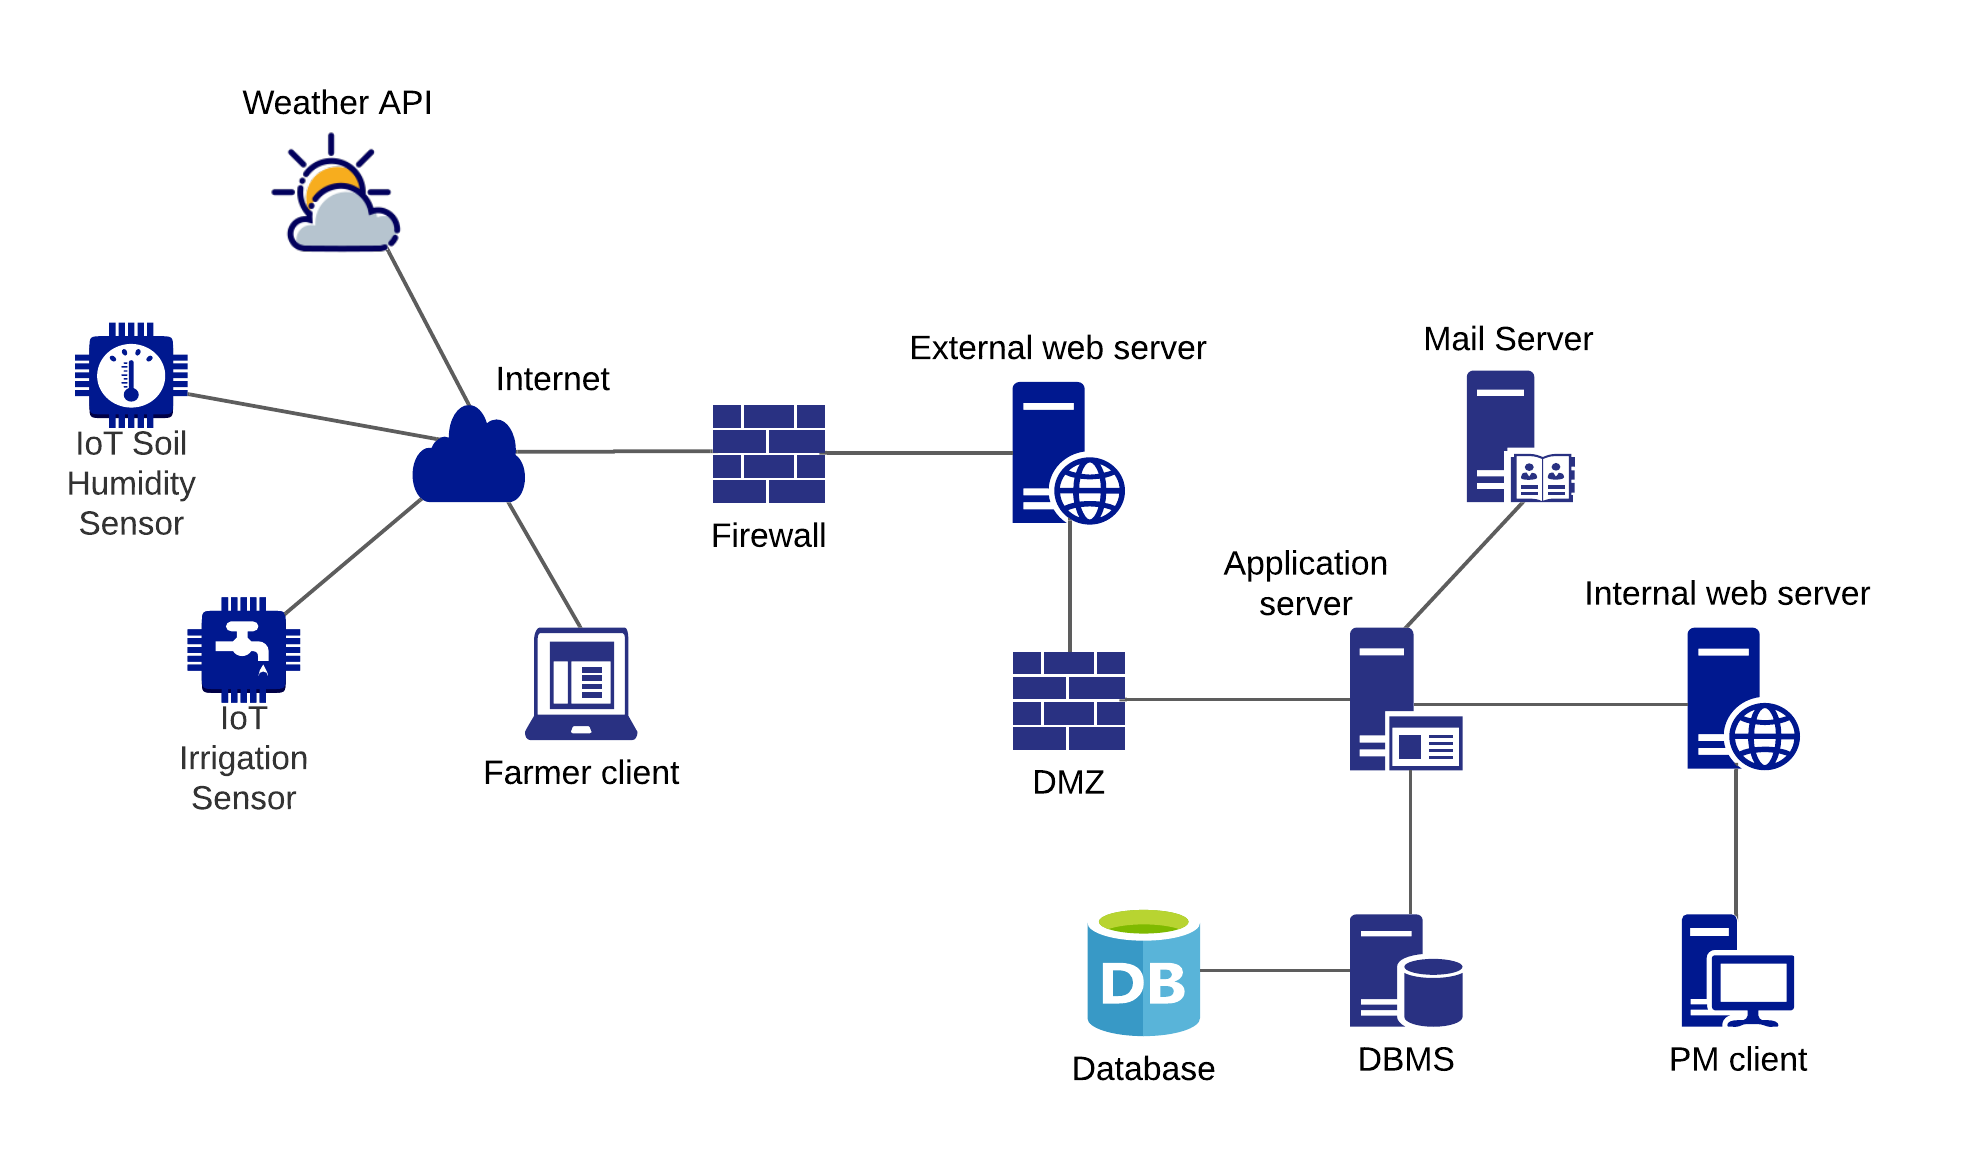
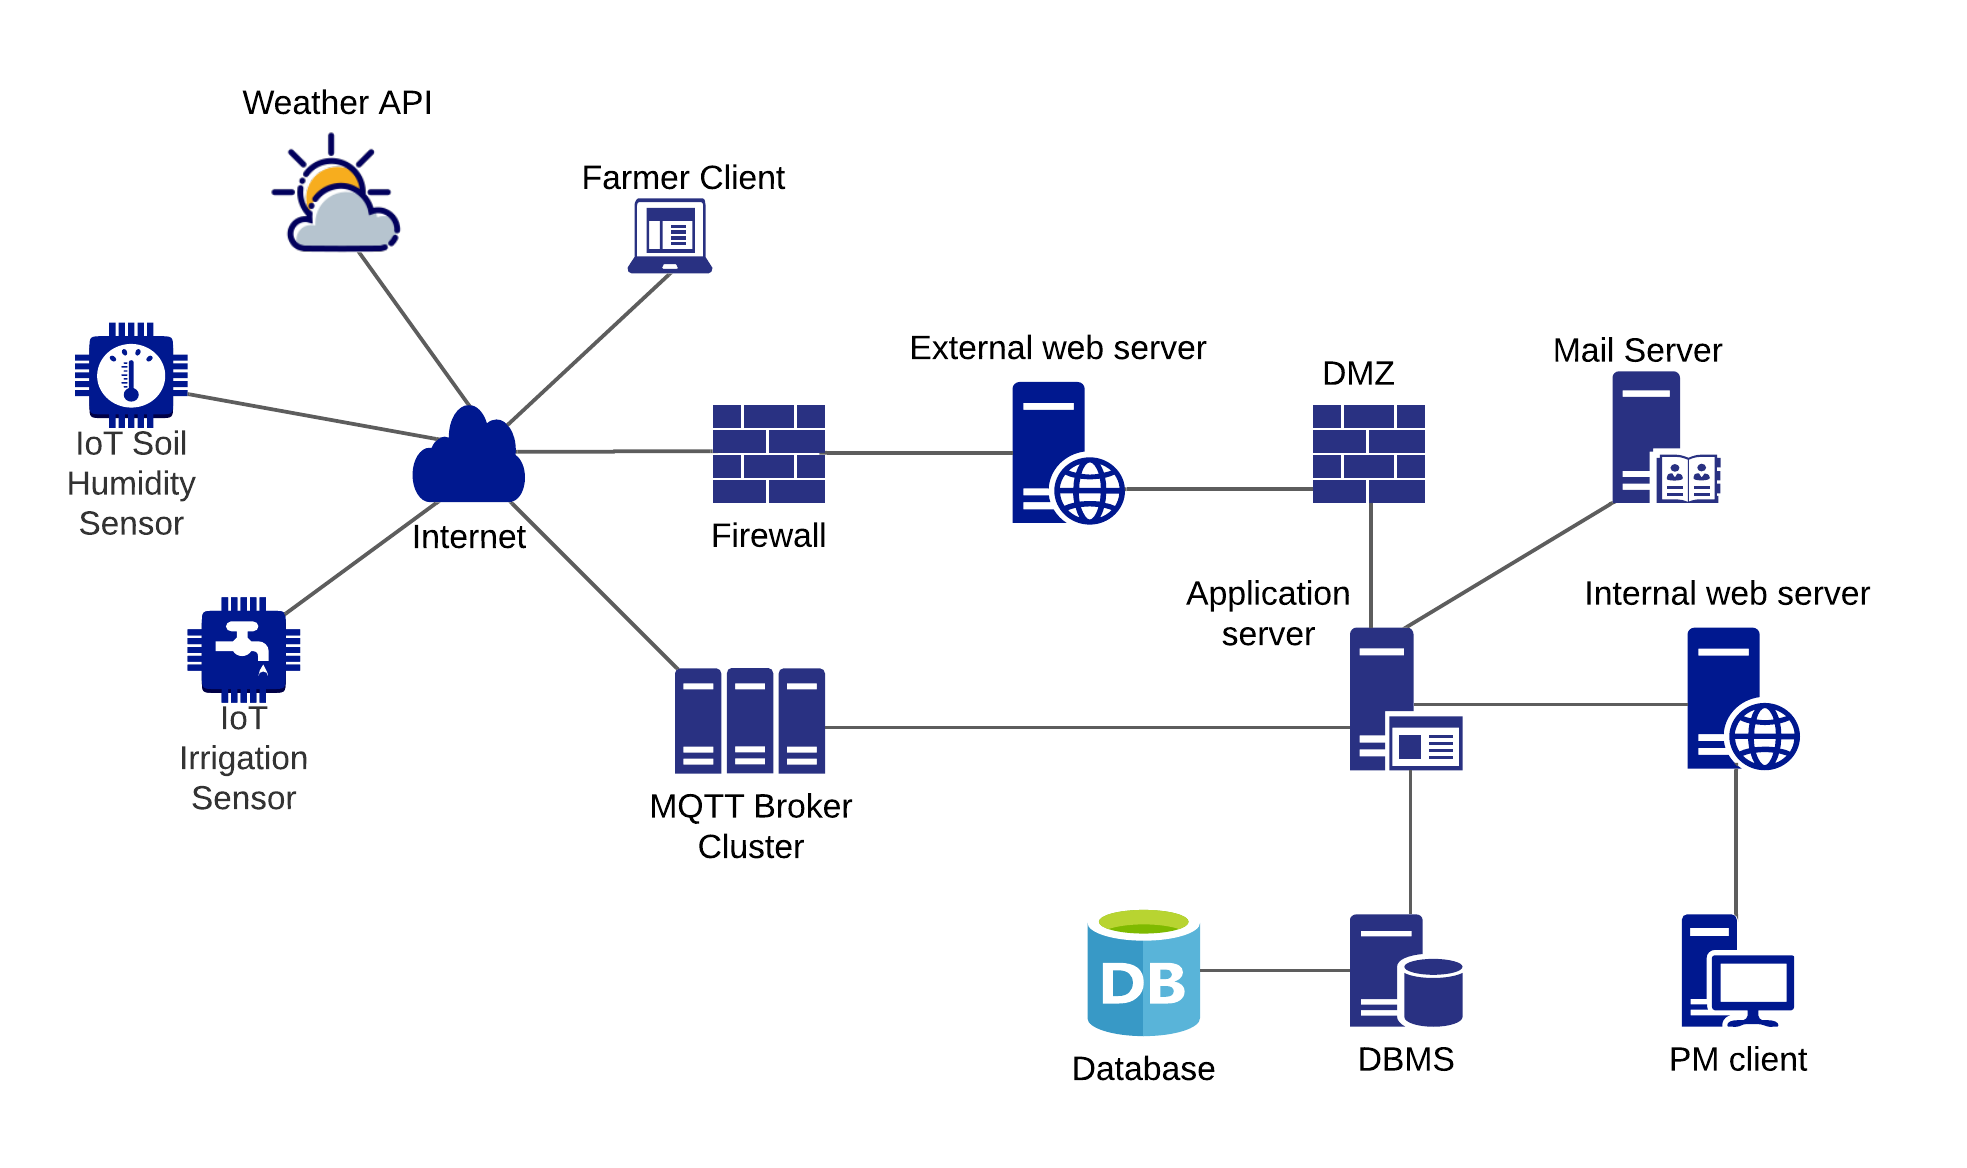
updated iot communication system

diff --git a/DD/dd.tex b/DD/dd.tex
@@ -141,7 +141,7 @@ The application can be accessed via a webapp provided both to internal and exter
 from their workstation, connected to an internal web server. The external users are the farmer, connected to the webapp from their personal computer. This separation between internal and external 
 users is meant first and foremost for security requirements, in order not to expose sensitive data to potential risks.\\
 Other significant components in the DREAM ecosystem are the IoT sensors, crucial to automatically retrieve and collect data from local farmers and to better evaluate their performances.
-IoT sensors are connected via MQTT protocol to a MQTT broker which periodically retrieves the data collected by sensors.\\
+IoT sensors are connected via MQTT protocol to a MQTT Broker Cluster which periodically retrieves the data collected by sensors.\\
 All the weather informations are taken from the weather forecasting system of Telangana through its APIs.\\
 Finally, the application server communicate with a database through a Database Management System.\\
 A more detailed description of the components will be given in the following sections.
@@ -231,7 +231,26 @@ The components of the application server are:
     \item 3 tier client-server
     \item middleware based
     \item rest api  
-    \item \textbf{Event based communication for sensors}\\The communication protocol chosen to retrieve data created by IoT sensors is Message Queue Telemetry Transport (MQTT), a standard messaging protocol for the Internet of Things that is extremely lightweight and ideal for connecting remote devices with a small code footprint and minimal network bandwidth. MQTT is a publish/subscribe protocol: the MQTT broker will reside directly in the Farmer Client and each farmer's set of sensors will have an exclusive topic. The sensors will publish messages containing data about the measurement only on the topic of their interest, i.e. the one to which the farmer owning the sensors will be subscribed. The data received on the Farmer Client will be available for use on the DREAM platform.
+    \item \textbf{Event based communication for sensors}\\The communication protocol chosen to retrieve 
+    data created by IoT sensors is Message Queue Telemetry Transport (MQTT), a standard messaging 
+    protocol for the Internet of Things that is extremely lightweight and ideal for connecting remote 
+    devices with a small code footprint and minimal network bandwidth. MQTT is a publish/subscribe 
+    communication protocol: A topic will be created for each farmer, then the sensors, depending on 
+    their geographical location, will publish data to the topics corresponding to the farmers of 
+    their interest. In this way it will be possible to access the data created by the sensors divided 
+    by each farmer. A MQTT Broker Cluster distributed in the region of Telangana, will take care of 
+    the management of sensor data. The application server will be subscribed to all topics and will 
+    receive periodically the data, it will then store them in the database to make them always 
+    accessible for processing.
+    This design provides high scalability because, if we had to resort to replication of the 
+    application server, it will be enough to subscribe to all topics the new server to receive 
+    all sensor data.
+    \begin{figure}[h]
+        \centering
+        \includegraphics[scale=0.5]{images/mqtt.png}
+        \caption{Distributed MQTT Broker System}
+        \label{fig:ui_login}
+    \end{figure}
 \end{itemize}
 \subsection{Other design decisions}
 \begin{itemize}
